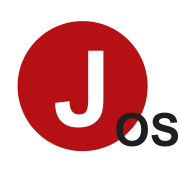
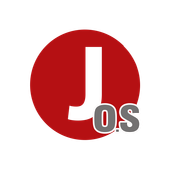
Usar a logomarca e o icone oficiais da Jatear
Icones do app (512/192/180/48) gerados a partir do icone oficial
J O.S em fundo branco. Logomarca oficial na tela de login (colorida)
e na sidebar e barra do celular (silhueta branca via filtro, padrao
do LMS). Cache do service worker renovado para propagar os icones.
Arquivos originais preservados em logo-original.

Changed region(s): [[0.0833, 0.1111, 1.0, 0.8611]]

diff --git a/src/assets/LogoJatear.jsx b/src/assets/LogoJatear.jsx
@@ -1,55 +1,21 @@
 /*
-  Logomarca Jatear em SVG.
-  variante "branca"   → para fundo vermelho/escuro (barra superior)
-  variante "colorida" → para fundo claro
+  Logomarca oficial da Jatear (public/logomarca.png).
+  variante "branca"   → para fundo vermelho/escuro (sidebar e barra do celular):
+                        a arte vira silhueta branca via filtro CSS
+  variante "colorida" → arte original, para fundo claro (tela de login)
 */
 export default function LogoJatear({ altura = 36, variante = 'branca' }) {
-  const corCirculo = variante === 'branca' ? '#FFFFFF' : '#B51013';
-  const corJ = variante === 'branca' ? '#B51013' : '#FFFFFF';
-  const corTexto = variante === 'branca' ? '#FFFFFF' : '#B51013';
-  const corSubtexto = variante === 'branca' ? '#FFFFFF' : '#1F1F1F';
-
   return (
-    <svg
-      height={altura}
-      viewBox="0 0 320 64"
-      role="img"
-      aria-label="Jatear Tratamento Anticorrosivo"
-    >
-      <circle cx="30" cy="30" r="26" fill={corCirculo} />
-      <text
-        x="30"
-        y="33"
-        textAnchor="middle"
-        dominantBaseline="central"
-        fontFamily="Arial, Helvetica, sans-serif"
-        fontWeight="bold"
-        fontSize="40"
-        fill={corJ}
-      >
-        J
-      </text>
-      <text
-        x="64"
-        y="40"
-        fontFamily="Arial, Helvetica, sans-serif"
-        fontWeight="bold"
-        fontSize="34"
-        letterSpacing="1"
-        fill={corTexto}
-      >
-        JATEAR
-      </text>
-      <text
-        x="65"
-        y="56"
-        fontFamily="Arial, Helvetica, sans-serif"
-        fontSize="10.2"
-        letterSpacing="0.6"
-        fill={corSubtexto}
-      >
-        TRATAMENTO ANTICORROSIVO
-      </text>
-    </svg>
+    <img
+      src="/logomarca.png"
+      alt="Jatear Tratamento Anticorrosivo"
+      style={{
+        height: altura,
+        width: 'auto',
+        maxWidth: '100%',
+        objectFit: 'contain',
+        filter: variante === 'branca' ? 'brightness(0) invert(1)' : 'none',
+      }}
+    />
   );
 }

diff --git a/src/pages/Login/Login.jsx b/src/pages/Login/Login.jsx
@@ -57,6 +57,9 @@ export default function Login() {
       </header>
 
       <form className="cartao-login" onSubmit={aoEnviar}>
+        <div style={{ textAlign: 'center', marginBottom: 20 }}>
+          <LogoJatear variante="colorida" altura={64} />
+        </div>
         <h1>Acessar o sistema</h1>
         <p className="subtitulo">Controle de Ordens de Serviço</p>
 

diff --git a/public/sw.js b/public/sw.js
@@ -1,7 +1,7 @@
 // Service worker do Jatear OS — cache do app shell apenas.
 // Navegações: rede primeiro (garante versão nova), cache como reserva offline.
 // Assets com hash do build: cache primeiro (são imutáveis).
-const CACHE = 'jatear-os-shell-v1';
+const CACHE = 'jatear-os-shell-v2';
 
 self.addEventListener('install', () => {
   self.skipWaiting();
